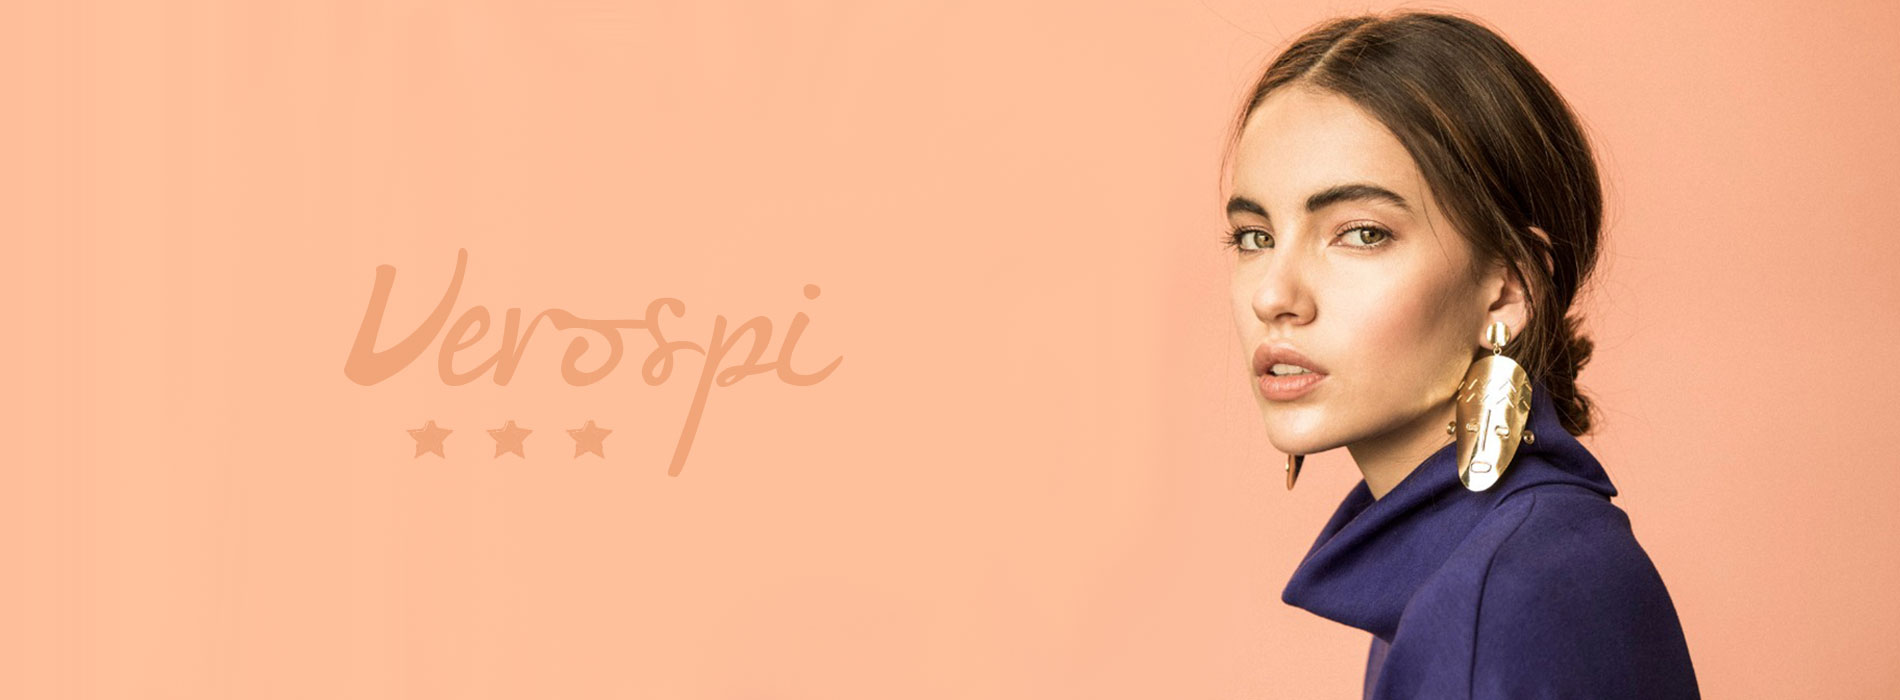
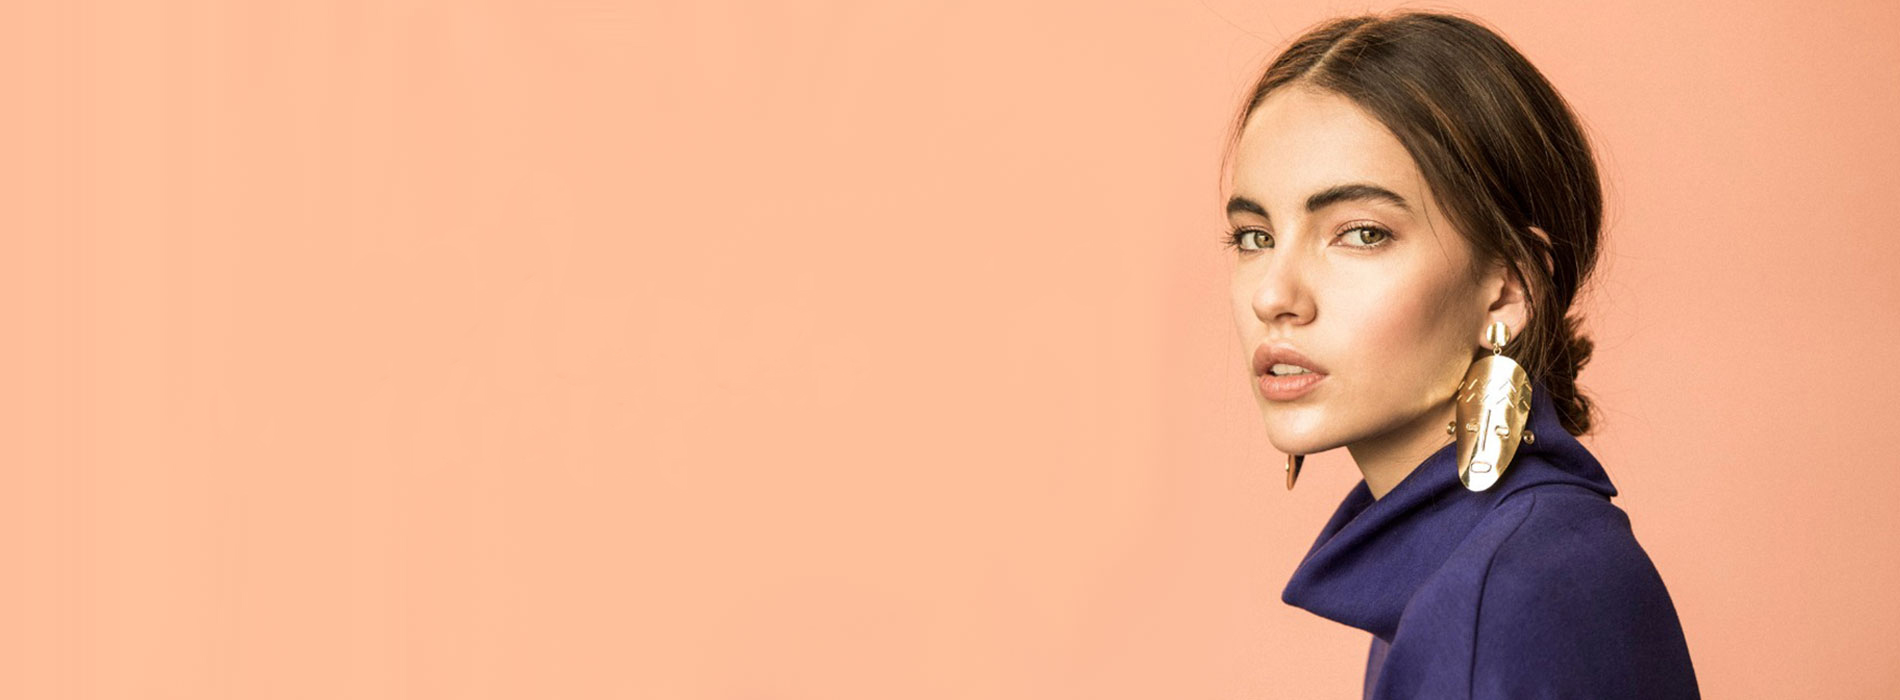
modify styling in collection

Changed region(s): [[0.1553, 0.36, 0.4658, 0.69], [0.4037, 0.39, 0.4347, 0.42]]

diff --git a/src/components/Collection.js b/src/components/Collection.js
@@ -1,5 +1,5 @@
 import React from "react"
-import { Box } from "@chakra-ui/react"
+import { Box, SimpleGrid, Heading, Text } from "@chakra-ui/react"
 import CmsImage from "./CmsImage"
 
 const Collection = ({ data }) => {
@@ -7,13 +7,21 @@ const Collection = ({ data }) => {
   const thumbnail = frontmatter.gallery[0]
   return (
     <Box border="1px solid black">
-      <p>{frontmatter.title}</p>
-      <p>{frontmatter.model}</p>
-      <p>{frontmatter.camera}</p>
-      <p>{frontmatter.client}</p>
-      {frontmatter.gallery.map(pict => {
-        return <CmsImage key={pict} src={pict} alt={pict} />
-      })}
+      <Heading as="h1" size="xl">
+        {frontmatter.title}
+      </Heading>
+      <Text>{frontmatter.model}</Text>
+      <Text>{frontmatter.camera}</Text>
+      <Text>{frontmatter.client}</Text>
+      <SimpleGrid columns={[1, null, 2, 3, null, 4]} spacing={5}>
+        {frontmatter.gallery.map(pict => {
+          return (
+            <Box key={pict}>
+              <CmsImage src={pict} alt={pict} />
+            </Box>
+          )
+        })}
+      </SimpleGrid>
     </Box>
   )
 }

diff --git a/src/components/Hero.js b/src/components/Hero.js
@@ -11,15 +11,15 @@ const Hero = ({ text, src, alt, height }) => {
       overflow="hidden"
       position="relative"
     >
-      <Box
+      {/* <Box
         bgColor="#f5f5f5"
         w="100%"
         h="100%"
         position="absolute"
         top="0"
         zIndex="20"
-        opacity="0.1"
-      />
+        // opacity="0.1"
+      /> */}
       <Image src={src} alt={alt} />
       <Center
         position="absolute"

diff --git a/src/pages/index.js b/src/pages/index.js
@@ -21,7 +21,7 @@ const IndexPage = () => {
         />
       ) : (
         <Hero
-          text="Veronica Ospina"
+          text=""
           src="hero.jpg"
           alt="Imagen de modelo femenina"
           height={heightList}

diff --git a/content/moda/2021-maria.md b/content/moda/2021-maria.md
@@ -1,6 +1,6 @@
 ---
 gallery:
-  - /img/aykut-aktas-dy4-fer7zwc-unsplash.jpg
+  - /img/moda-thumbnail.jpg
   - /img/chris-murray-ygzex5ylkea-unsplash.jpg
   - /img/milan-popovic-0n93dsz2ikg-unsplash.jpg
 templateKey: moda
